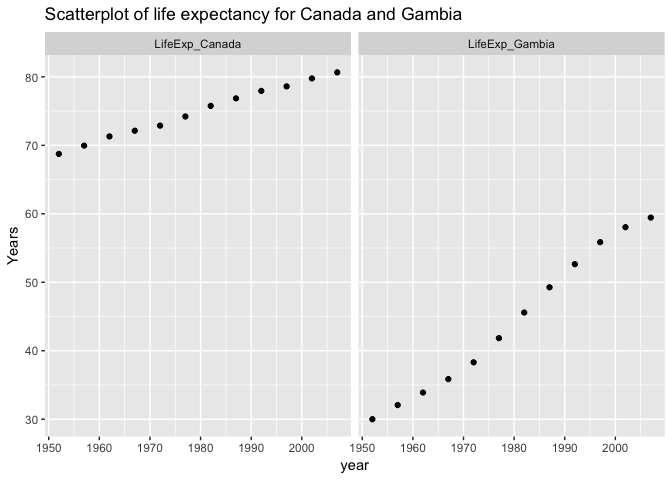
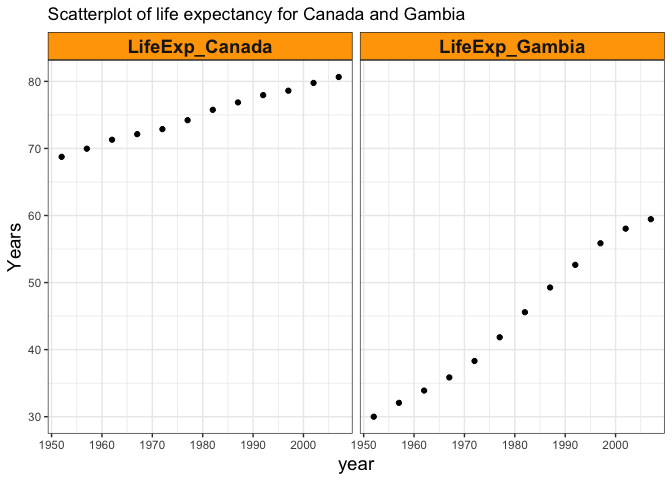
add table of content

diff --git a/hw04/hw04.md b/hw04/hw04.md
@@ -3,7 +3,18 @@ hw04
 Xinzhe Dong
 October 4, 2017
 
-### load the packages
+### Abstract
+
+We are going to explore the gapminder data set included with R. We will be practicing data reshaping and join.
+
+#### Table of content
+
+-   [1 Installation of packages](#installation_of_packages)
+-   [2 General data reshaping and relationship to aggregation](#general_data_reshaping_and_relationship_to_aggregation)
+-   [3 Join, merge, look up](#join,_merge,_look%20up)
+
+1 Installation of packages
+--------------------------
 
     ## Loading tidyverse: ggplot2
     ## Loading tidyverse: tibble
@@ -17,14 +28,17 @@ October 4, 2017
     ## filter(): dplyr, stats
     ## lag():    dplyr, stats
 
-### 1. General data reshaping and relationship to aggregation
+2 General data reshaping and relationship to aggregation
+--------------------------------------------------------
+
+[*Back to the top*](#abstract)
 
 #### `Activity #2`
 
 1.Make a tibble with one row per year and columns for life expectancy for Canada and Gambia.
 
 ``` r
-# get (average) life expectancy for two countries over years
+# get (average) life expectancy for Canada over years
 (lifeexp_Canada <- filter(gapminder,country=="Canada")%>%
     group_by(year)%>%
     summarize(lifeExp))
@@ -47,6 +61,7 @@ October 4, 2017
     ## 12  2007  80.653
 
 ``` r
+# get (average) life expectancy for Gambia over years
 (lifeexp_Gambia <- filter(gapminder,country=="Gambia")%>%
     group_by(year)%>%
     summarize(lifeExp))
@@ -69,7 +84,7 @@ October 4, 2017
     ## 12  2007  59.448
 
 ``` r
-# Construct a tibble that joins `lifeexp_Canada`, and `lifeexp_Gambia`.
+# Construct a tibble that joins lifeexp_Canada, and lifeexp_Gambia.
 year_lifeexp <- full_join(lifeexp_Canada, lifeexp_Gambia, by="year")
 colnames(year_lifeexp) <- c("year", "LifeExp_Canada", "LifeExp_Gambia")
 ```
@@ -549,19 +564,34 @@ LifeExp\_Gambia
 </tr>
 </tbody>
 </table>
-**5. Scatterplot life expectancy for one country against that of another.**
+5.Scatterplot life expectancy for one country against that of another.
 
 ``` r
-year_lifeexp_tidy %>%
+p1 <- year_lifeexp_tidy %>%
     ggplot(aes(x=year, y=Years)) +
     geom_point() +
   facet_wrap( ~ LifeExp) +
     labs(title= "Scatterplot of life expectancy for Canada and Gambia") 
+
+p1 + theme_bw() +
+  theme(strip.background = element_rect(fill="orange"),
+          axis.title = element_text(size=14),
+          strip.text = element_text(size=14, face="bold"))
 ```
 
 ![](hw04_files/figure-markdown_github-ascii_identifiers/unnamed-chunk-6-1.png)
 
-### 2. Join, merge, look up
+-   Taking advantege of this new data shape, we are able to scatterplot life expectancy for one country against that of another.
+
+-   From this plot, we can tell that:
+
+    -   The (average) life expectancy for Canada and Gambia is both increasing over the years.
+    -   Even if the (average) life expectancy of Gambia is increasing at a greater rate than that of Canada, the (average) life expectancy of Gambia in 2017 is still lower than that of Canada in 1952.
+
+3 Join, merge, look up
+----------------------
+
+[*Back to the top*](#abstract)
 
 Create a second data frame, complementary to Gapminder. Join this with Gapminder using a dplyr join function and make some observations about the process and result. Explore the different types of joins.
 
